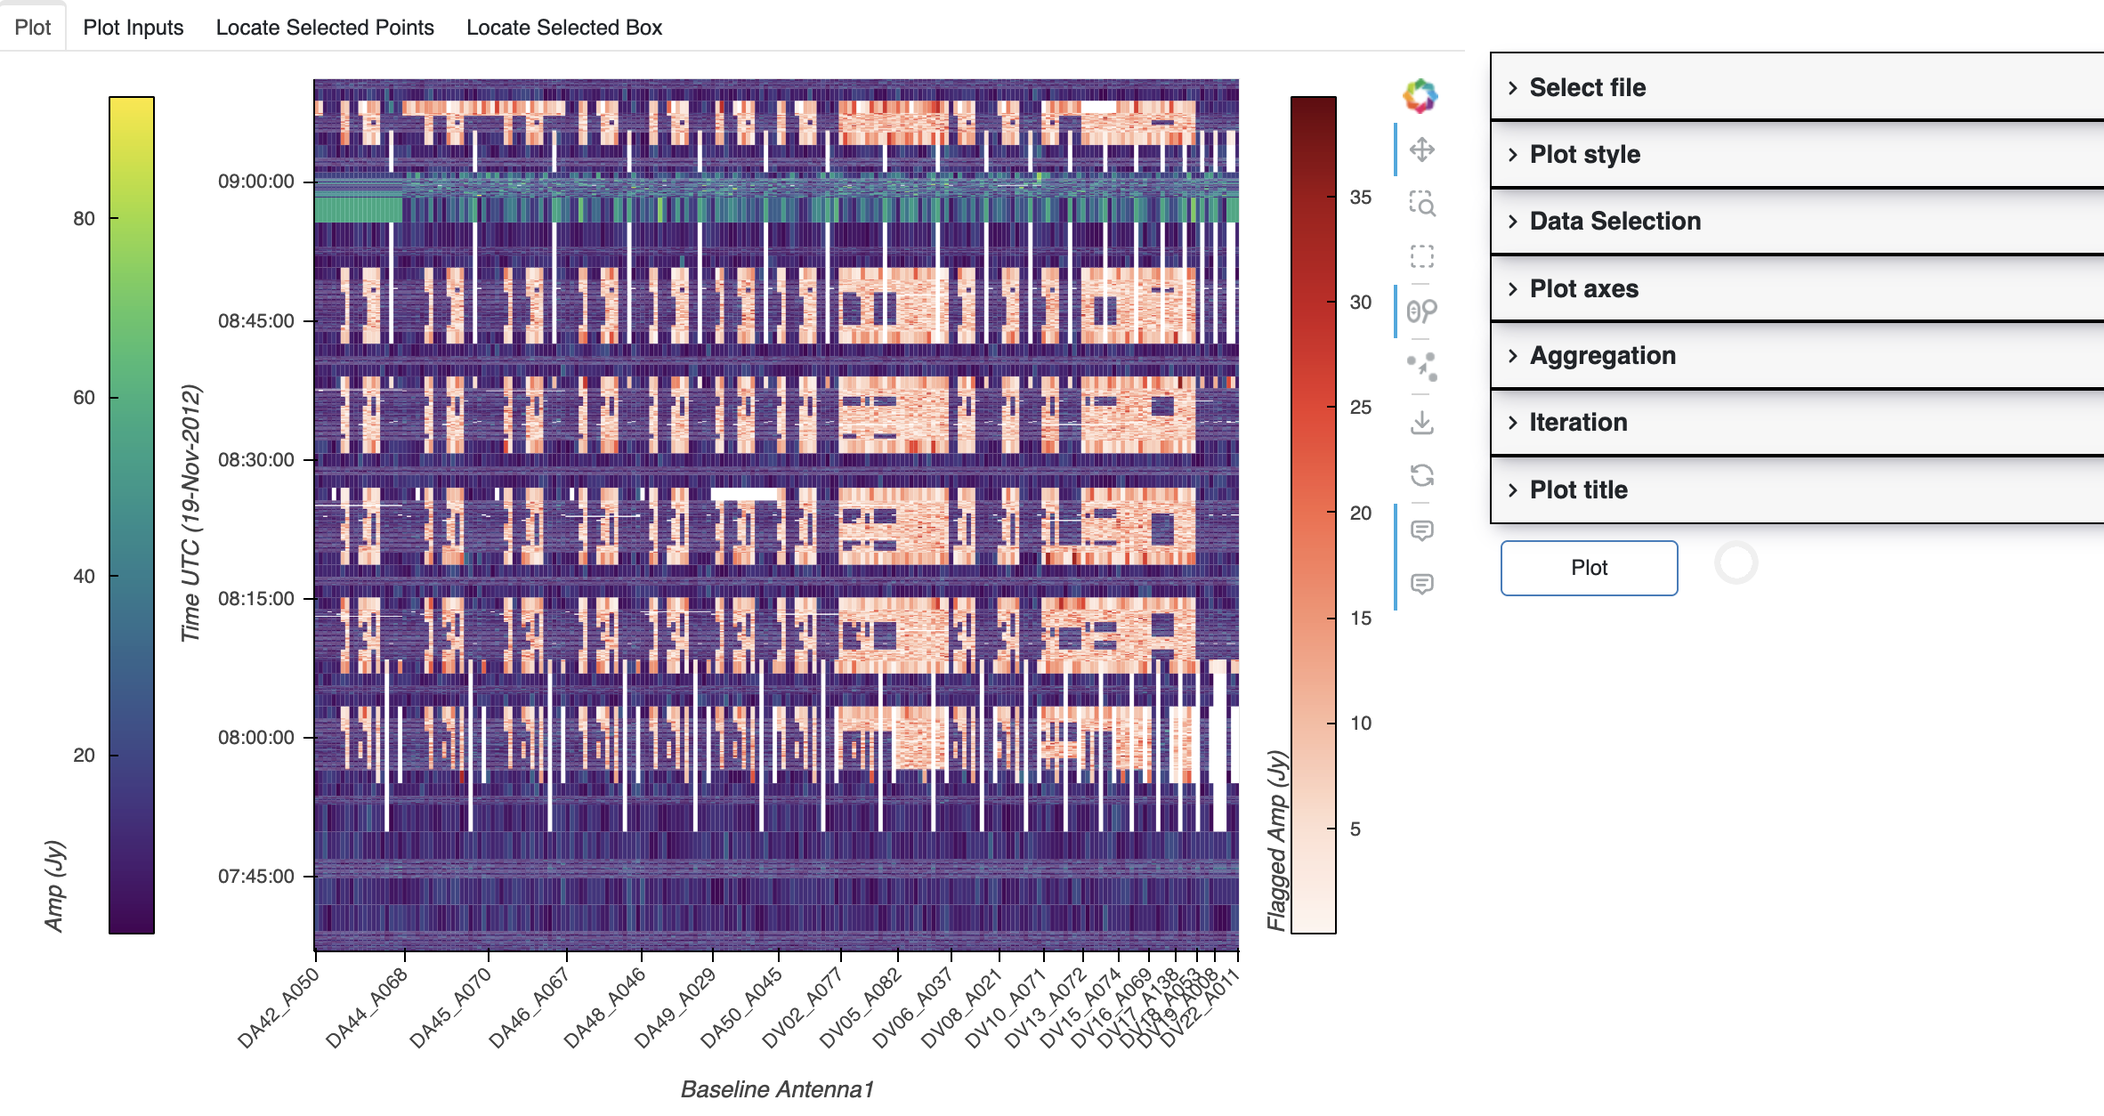
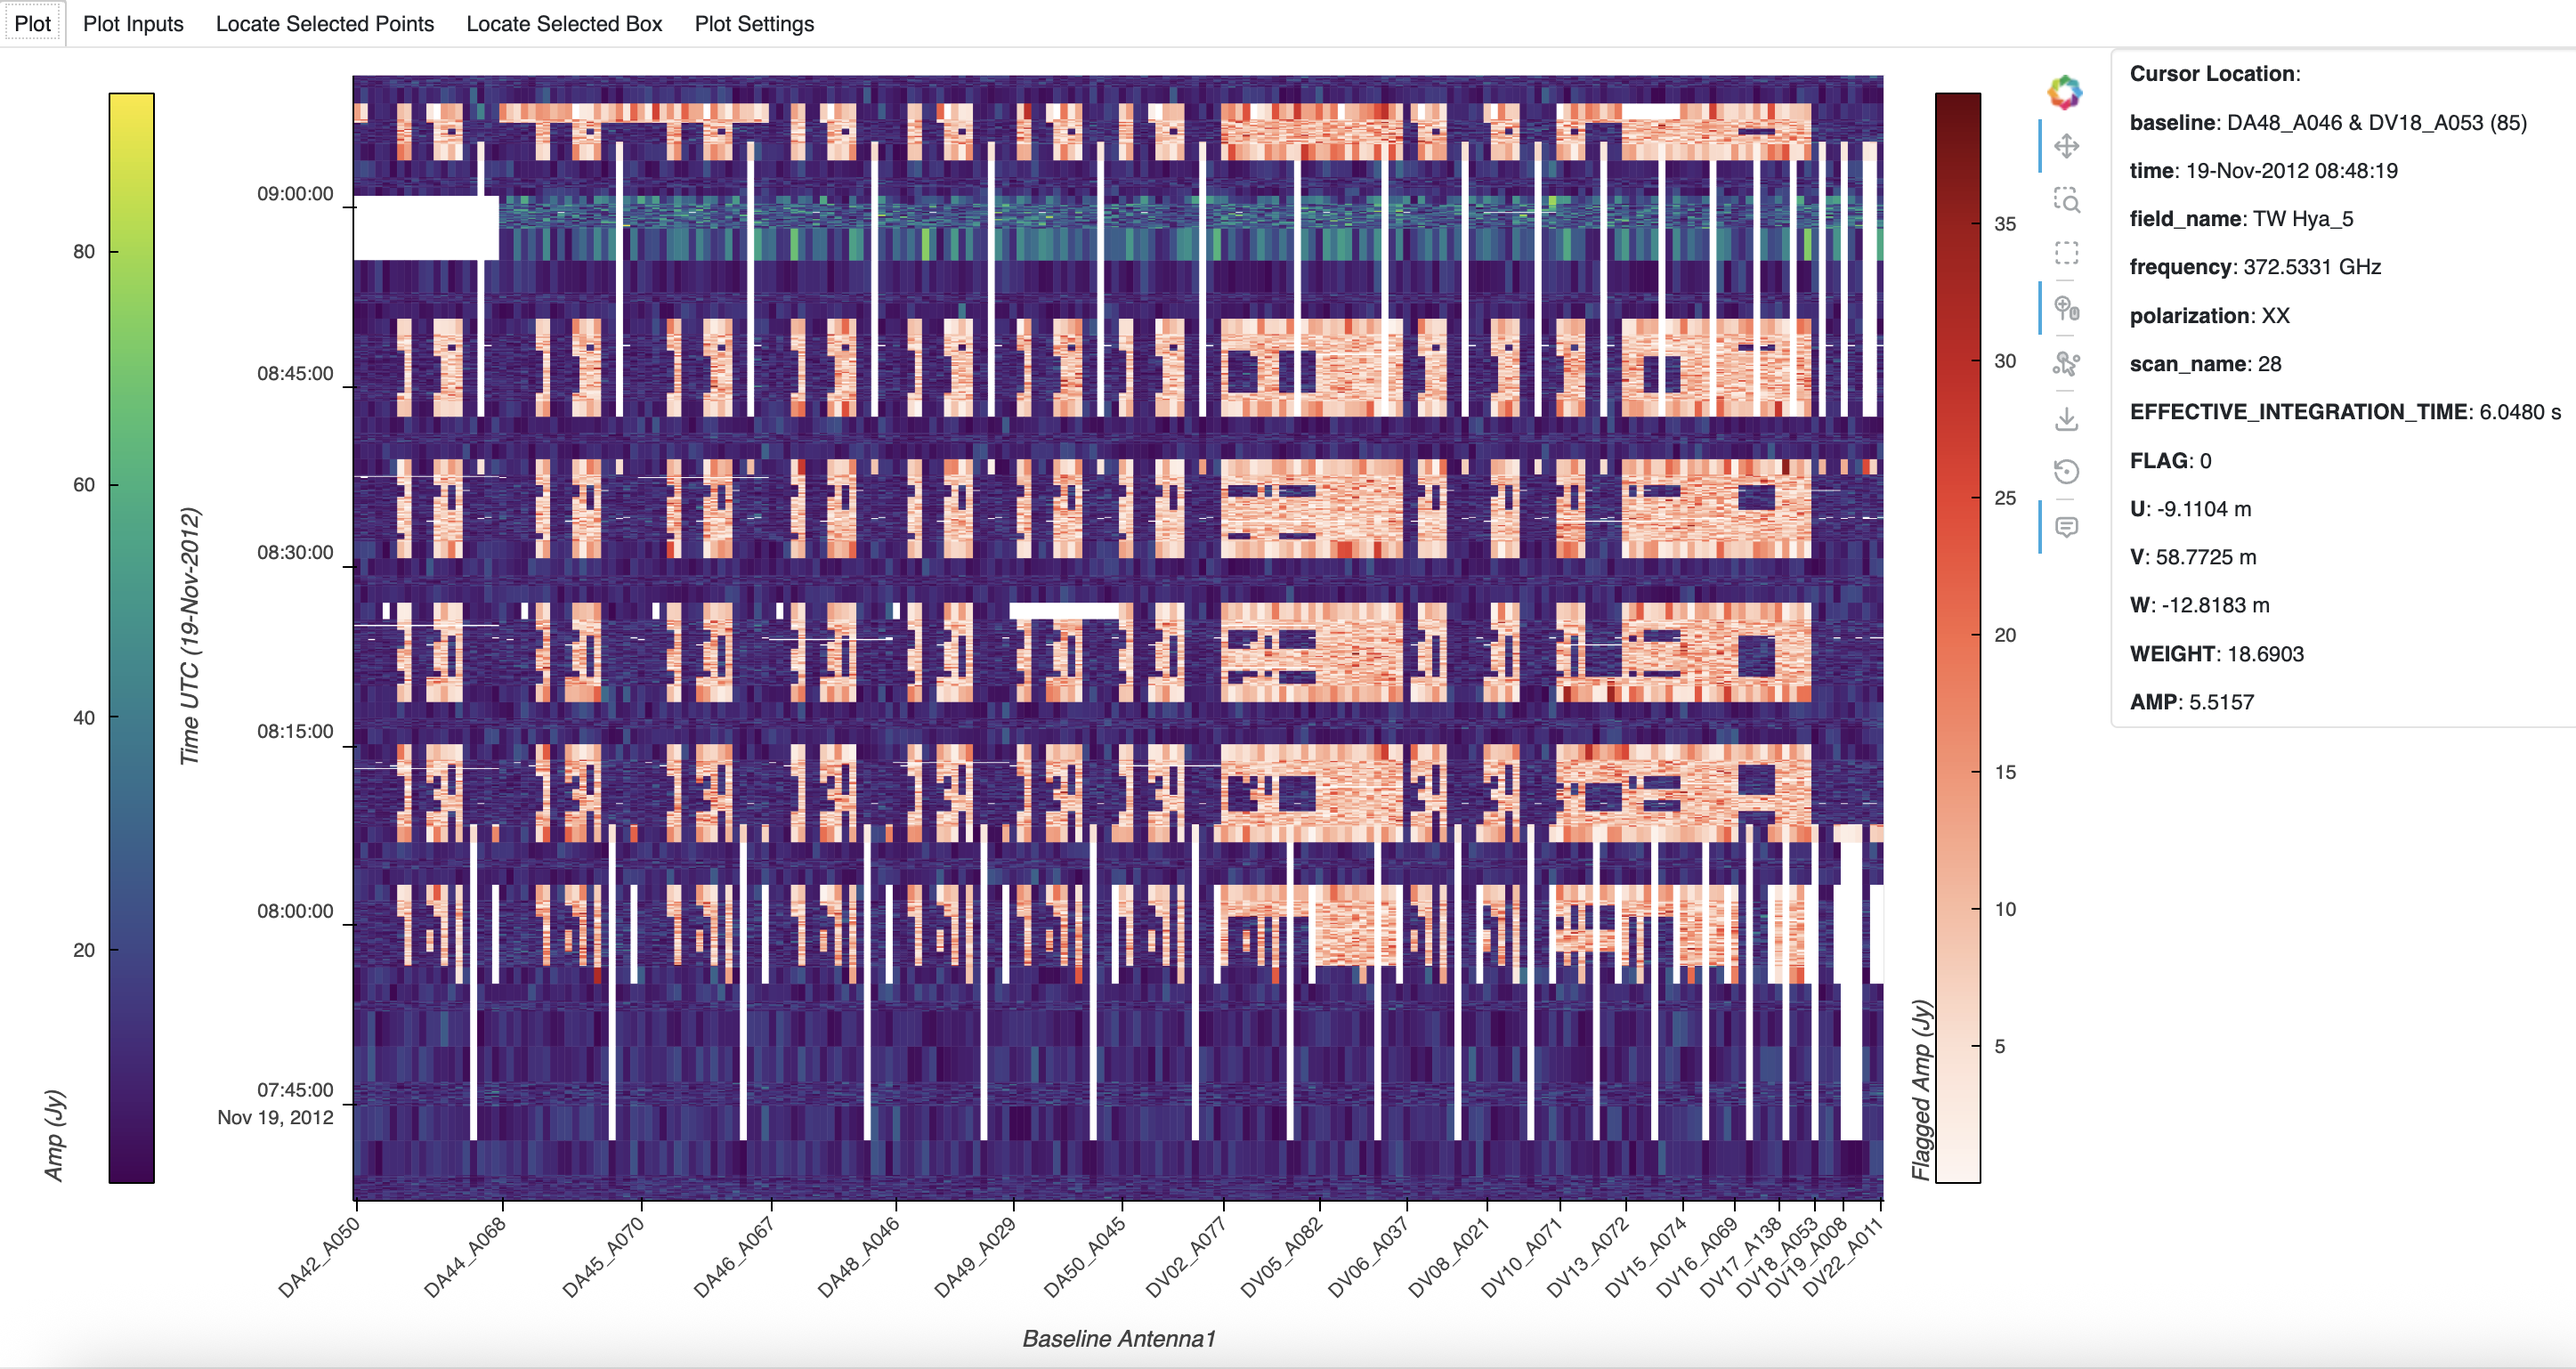
Move plot settings from Plot tab to new tab

diff --git a/src/vidavis/plot/ms_plot/_ms_plot.py b/src/vidavis/plot/ms_plot/_ms_plot.py
@@ -75,7 +75,7 @@ class MsPlot:
         self._last_points = None
         self._last_box = None
         self._locate_plot_options = {
-            'tools': ['hover', 'box_select'],
+            'tools': ['box_select', 'hover'],
             'selection_fill_alpha': 0.2,    # dim selected areas of plot
             'nonselection_fill_alpha': 1.0, # do not dim unselected areas of plot
         }
@@ -160,16 +160,6 @@ class MsPlot:
             self._gui_panel[2].clear() # locate points
             self._gui_panel[3].clear() # locate box
 
-    def unlink_plot_locate(self):
-        ''' Disconnect streams when plot data is going to be replaced '''
-        if self._show_panel and len(self._show_panel.objects) == 4:
-            # Remove dmap (streams with callback) from previous plot
-            self._show_panel[0][0] = self._last_plot.opts(tools=['hover'])
-            # Remove locate widgets
-            self._show_panel[0].pop(1) # cursor locate box
-            self._show_panel.pop(3)    # box locate tab
-            self._show_panel.pop(2)    # points locate tab
-
     def clear_selection(self):
         ''' Clear data selection and restore original ProcessingSet '''
         if self._ms_data:
@@ -209,17 +199,19 @@ class MsPlot:
             # Create panel layout
             self._show_panel = pn.Tabs(
                 ('Plot',
-                    pn.Column(
+                    pn.Row(
                         plot * dmap,
                         pn.WidgetBox(), # cursor info
                     )
                 ),
-                sizing_mode='stretch_width',
+                sizing_mode='stretch_both',
             )
+
+            # Add tabs for inputs and locate
             if inputs_column:
                 self._show_panel.append(('Plot Inputs', inputs_column))
-            self._show_panel.append(('Locate Selected Points', pn.Feed(sizing_mode='stretch_height')))
-            self._show_panel.append(('Locate Selected Box', pn.Feed(sizing_mode='stretch_height')))
+            self._show_panel.append(('Locate Selected Points', pn.Feed(height_policy='max')))
+            self._show_panel.append(('Locate Selected Box', pn.Feed(height_policy='max')))
 
             # return value for locate callback
             self._last_plot = plot
@@ -420,6 +412,16 @@ class MsPlot:
             ]
         )
         return dmap * points
+
+    def _unlink_plot_locate(self):
+        ''' Disconnect streams when plot data is going to be replaced '''
+        if self._show_panel and len(self._show_panel.objects) == 4:
+            # Remove dmap (streams with callback) from previous plot
+            self._show_panel[0][0] = self._last_plot.opts(tools=['hover'])
+            # Remove locate widgets
+            self._show_panel[0].pop(1) # cursor locate box
+            self._show_panel.pop(3)    # box locate tab
+            self._show_panel.pop(2)    # points locate tab
 
     def _get_plot_axes(self):
         ''' Return x, y, vis axes '''

diff --git a/src/vidavis/plot/ms_plot/_raster_plot_gui.py b/src/vidavis/plot/ms_plot/_raster_plot_gui.py
@@ -8,7 +8,7 @@ from vidavis.plot.ms_plot._ms_plot_selectors import (file_selector, title_select
 
 def create_raster_gui(callbacks, plot_info, empty_plot):
     ''' Use Holoviz Panel to create a dashboard for plot inputs and raster plot display.
-        ms (str): path to MS, if set
+        callbacks (dist): callback functions for widgets
         plot_info (dict): with keys 'ms', 'data_dims', 'x_axis', 'y_axis'
         empty_plot (hv.Overlay): QuadMesh overlay plot with no data
     '''
@@ -22,24 +22,19 @@ def create_raster_gui(callbacks, plot_info, empty_plot):
     #dmap, points = get_plot_dmap(callbacks, selectors, init_plot)
 
     return pn.Tabs(
-        ('Plot',  pn.Row(                                                  # Tabs[0]
-            pn.Column( # Row[0]
-                pn.pane.HoloViews(empty_plot), # Column[0] plot
-                pn.WidgetBox(),                # Column[1] cursor location
-            ),
-            pn.Spacer(width=10), # Row[1]
-            pn.Column(           # Row[2]
-                pn.Spacer(height=25), # Column[0]
-                selectors,            # Column[1] selectors
-                init_plot,            # Column[2] plot button and spinner
-                width_policy='min',
-                width=300,
-                sizing_mode='stretch_height',
-            ),
+        ('Plot', pn.Row(                                                   # Tabs[0]
+            pn.pane.HoloViews(empty_plot), # Row[0] plot
+            pn.WidgetBox(),                # Row[1] cursor location
         )),
         ('Plot Inputs', pn.Column()),                                      # Tabs[1]
         ('Locate Selected Points', pn.Feed(sizing_mode='stretch_height')), # Tabs[2]
         ('Locate Selected Box', pn.Feed(sizing_mode='stretch_height')),    # Tabs[3]
+        ('Plot Settings', pn.Column(                                       # Tabs[4]
+            pn.Spacer(height=25), # Column[0]
+            selectors,            # Column[1] selectors
+            init_plot,            # Column[2] plot button and spinner
+            sizing_mode='stretch_both',
+        )),
         sizing_mode='stretch_width',
     )
 
@@ -79,6 +74,7 @@ def get_plot_input_selectors(callbacks, plot_info):
         ("Aggregation", agg_selectors),          # [4]
         ("Iteration", iter_selectors),           # [5]
         ("Plot title", title_input),             # [6]
+        sizing_mode='stretch_width',
     )
     selectors.toggle = True
     return selectors

diff --git a/src/vidavis/apps/_ms_raster.py b/src/vidavis/apps/_ms_raster.py
@@ -183,8 +183,8 @@ class MsRaster(MsPlot):
 
         start = time.time()
 
-        # If previous plot was shown, unlink from data streams
-        super().unlink_plot_locate()
+        # Unlink previous plot from data streams
+        super()._unlink_plot_locate()
 
         # Clear for new plot
         self._reset_plot(clear_plots)
@@ -496,7 +496,7 @@ class MsRaster(MsPlot):
 
                     # Put plot with dmap for locate streams in gui panel
                     dmap = self._get_locate_dmap(self._locate_gui_points)
-                    self._gui_panel[0][0][0].object = gui_plot * dmap
+                    self._gui_panel[0][0].object = gui_plot * dmap
                 except (ValueError, TypeError, KeyError, RuntimeError) as e:
                     # Clear plot, inputs invalid
                     self._notify(str(e), 'error', 0)
@@ -518,7 +518,7 @@ class MsRaster(MsPlot):
     def _locate_gui_points(self, x, y, data, bounds):
         ''' Callback for locate streams '''
         if self._gui_plot_data:
-            super()._locate_cursor(x, y, self._gui_plot_data, self._gui_panel[0][0][1])
+            super()._locate_cursor(x, y, self._gui_plot_data, self._gui_panel[0][1])
             super()._locate_points(data, self._gui_plot_data, self._gui_panel[2])
             super()._locate_box(bounds, self._gui_plot_data, self._gui_panel[3])
         return self._last_gui_plot
@@ -602,7 +602,7 @@ class MsRaster(MsPlot):
         if not self._gui_panel:
             return None
 
-        selectors = self._gui_panel[0][2][1]
+        selectors = self._gui_panel[4][1]
         if name == "selectors":
             return selectors
 
@@ -753,14 +753,14 @@ class MsRaster(MsPlot):
         ''' Callback to start spinner when Plot button clicked. '''
         if self._gui_panel:
             # Start spinner
-            spinner = self._gui_panel[0][2][2][1]
+            spinner = self._gui_panel[4][2][1]
             spinner.value = plot_clicked
 
     def _update_plot_status(self, plot_changed):
         ''' Change button color when plot inputs change. '''
         if self._gui_panel:
             # Set button color
-            button = self._gui_panel[0][2][2][0]
+            button = self._gui_panel[4][2][0]
             button.button_style = 'solid' if plot_changed else 'outline'
 
     def _show_plot_inputs(self):

diff --git a/src/vidavis/plot/ms_plot/_locate_points.py b/src/vidavis/plot/ms_plot/_locate_points.py
@@ -47,9 +47,9 @@ def update_cursor_location(cursor, plot_axes, xds, cursor_locate_box):
     cursor_position = {x_axis: x, y_axis: y}
     cursor_location = _locate_point(xds, cursor_position, vis_axis)
 
-    location_column = pn.Column(pn.widgets.StaticText(name="Cursor Location"))
+    location_column = pn.Column(pn.widgets.StaticText(name="CURSOR LOCATION"))
     # Add row of columns to column layout
-    location_row = _layout_point_location(cursor_location)
+    location_row = _layout_point_location(cursor_location, True)
     location_column.append(location_row)
     # Add location column to widget box
     cursor_locate_box.append(location_column)
@@ -252,19 +252,23 @@ def _get_location_text(name, value, units):
     unit = units[name] if name in units else ""
     return pn.widgets.StaticText(name=name, value=f"{value} {unit}")
 
-def _layout_point_location(text_list):
+def _layout_point_location(text_list, is_cursor=False):
     ''' Layout list of StaticText in row of columns containing 3 rows '''
     location_row = pn.Row()
     location_col = pn.Column()
 
-    for static_text in text_list:
-        # 3 entries per column; append to row and start new column
-        if len(location_col.objects) == 3:
-            location_row.append(location_col)
-            location_col = pn.Column()
+    if is_cursor:
+        for static_text in text_list:
+            location_col.append(static_text)
+    else:
+        for static_text in text_list:
+            # 3 entries per column; append to row and start new column
+            if len(location_col.objects) == 3:
+                location_row.append(location_col)
+                location_col = pn.Column()
 
-        static_text.margin = (0, 5) # default (5, 10)
-        location_col.append(static_text)
+            static_text.margin = (0, 5) # default (5, 10)
+            location_col.append(static_text)
 
     # Add last column
     location_row.append(location_col)

diff --git a/src/vidavis/plot/ms_plot/_raster_plot.py b/src/vidavis/plot/ms_plot/_raster_plot.py
@@ -185,7 +185,6 @@ class RasterPlot:
         x_formatter = get_time_formatter() if x_axis == 'time' else None
         y_formatter = get_time_formatter() if y_axis == 'time' else None
 
-        # Hide flagged colorbar if unflagged colorbar is shown
         if xda.count().values > 0:
             if is_flagged:
                 show_colorbar = style_params['show_flagged_colorbar']
@@ -240,7 +239,6 @@ class RasterPlot:
                 yticks=plot_params['axis_labels']['y']['ticks'],
                 rot=45,
                 marker='s', # square
-                hover=True,
                 responsive=True,
             )
 

diff --git a/docs/source/applications/ms_raster.rst b/docs/source/applications/ms_raster.rst
@@ -592,19 +592,17 @@ below it are the *pan*, *box zoom*, *box select*, *wheel zoom*, *point draw*,
 *save*, *reset*, and *hover* tool icons. By default, the pan, wheel zoom, and
 hover tools are activated for the plot, indicated by the line to the left of the
 icons. Bokeh plot tools can be enabled or disabled by clicking on the tool icon.
-For example, to see the flagged hover values (top hover icon), disable the
-unflagged hover tool (bottom hover icon).
 
 In addition to the hover information, when the cursor moves over the plot, a
-Cursor Location box appears under the plot to show the coordinates and data
-variables associated with the cursor position.
+Cursor Location box appears to the right of the plot to show the coordinates and
+data variables associated with the cursor position.
 
 The plot is shown with four tabs at the upper left.  The first tab (**Plot**),
 which is active by default, contains the plot and the cursor location box. The
 second tab (**Plot Inputs**) shows the parameters used to make the raster
 plot (including automatic selections), sorted alphabetically:
 
-.. image:: _static/show_plot_inputs.png
+.. image:: _static/msraster_plot_inputs.png
    :width: 75%
 
 The remaining tabs are for selecting areas of the plot to show the location of
@@ -615,7 +613,7 @@ the points. See :ref:`locate_data` for a detailed description.
    The Locate features are disabled in a plot when a new plot is created with
    ``plot()``, since the plot data needed for the metadata is no longer
    available. The cursor box and locate tabs are removed, but the hover tool is
-   still active.
+   still active. The new plot is shown in a new tab with locate features.
 
 If multiple plots were created (with **iter_axis**, or **clear_plots** set to
 False) in a **subplots** layout, the plots are connected so that the Bokeh plot
@@ -642,7 +640,8 @@ box selected with the **Box Select** tool.
 **Cursor:**
 
 When the cursor is positioned over the plot, the hover values are shown in the
-plot as well as additional Cursor Location information shown below the plot:
+plot as well as additional Cursor Location information shown to the right of the
+plot:
 
 .. image:: _static/msraster_cursor.png
 
@@ -666,18 +665,19 @@ The location information for each selected point is displayed in the Locate tabs
 and in the log file. Points selected individually with **Point Draw** will
 appear in the third tab (**Locate Selected Points**), and points selected in a
 box with **Box Select** will appear in the fourth tab (**Locate Selected Box**).
-In the following plot, two points and one box are selected at the bottom center
-of the plot, and the **Point Draw** tool is activated:
+Only one selection tool can be activated at a time. In the following plot,
+several unflagged points and a box of flagged points are
+selected in the plot, and the **Point Draw** tool is activated:
 
-.. image:: _static/locate_points.png
+.. image:: _static/msraster_locate_points.png
 
-The location information and format for each point is identical to the Cursor
-Location described above. For example, in the **Locate Selected Box** tab, the
+The location information shows the coordinate and data variable information
+associated with each point. For example, in the **Locate Selected Box** tab, the
 number of points in the box is shown, then the points are listed with a divider
 between them. Only the **first 100** points in the selected box are located,
 starting with the first row of the box:
 
-.. image:: _static/locate_selected_box.png
+.. image:: _static/msraster_locate_box.png
 
 .. warning::
    Although multiple boxes may be selected by pressing the SHIFT key, the list
@@ -767,13 +767,20 @@ zoom, and hover tools are activated:
 
 .. image:: _static/msraster_gui.png
 
-**Plot Inputs:**
+**Plot Settings:**
 
-The plot input widgets on the right side of the GUI allow the user to set all of
-the parameters in the MsRaster functions ``set_style_params``, ``select_ps``,
-``select_ms``, and ``plot``, described above:
+When using the interactive GUI, settings for the plot may be changed in the
+**Plot Settings** tab. This allows the user to set all of the parameters in the
+MsRaster functions ``set_style_params``, ``select_ps``, ``select_ms``, and
+``plot``, described above:
 
-.. image:: _static/msraster_gui_inputs.png
+.. image:: _static/msraster_plot_settings.png
+
+In this accordion-style panel, each section may be expanded to access its
+settings. The **Plot** button below the panel will change from outline to solid
+when the settings change. Click **Plot** to create the plot. The spinner to the
+right of the button will rotate until the plot is complete and shown in the
+**Plot** tab, with the updated plot inputs in the **Plot Inputs** tab.
 
 * :ref:`construct_msraster` parameters:
 
@@ -797,9 +804,6 @@ the parameters in the MsRaster functions ``set_style_params``, ``select_ps``,
   * **Aggregation**: ``aggregator``, ``agg_axis``
   * **Iteration**: ``iter_axis``, ``iter_range``, ``subplots``
   * **Plot title**: ``title``
-
-The **Plot** button below the plot inputs widgets will change from outline to
-solid when the inputs change. Click **Plot** to render the plot.
 
 .. note::
    Currently, the only way to create multiple plots in a layout is iteration.
